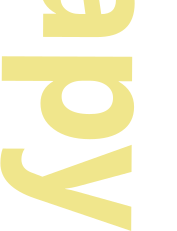
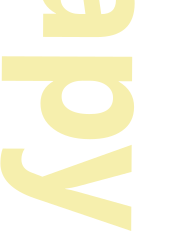
App updated-feedback

diff --git a/client/src/pages/Home/Home.js b/client/src/pages/Home/Home.js
@@ -45,14 +45,14 @@ const Welcome=()=>{
         <section  className="Welcome">
                 <div className="Home__bg_themed Home__bg_hello">
                     <div className="section__wrapper">
-                        <SectionTitle data={{divider:'',subtitle:'Welcome!',title:'Change happens when you allow yourself to look at life in a new way.'}}/>
+                        <SectionTitle data={{divider:'',subtitle:'Welcome',title:'Change happens when you allow yourself to look at life in a new way'}}/>
                     </div>
                 </div>
                 <div>
                     <div className="section__wrapper">
                         <p><b> It is not uncommon to feel lost or confused from time to time, or to experience symptoms, unhelpful behaviours or a lack of confidence. These are things that we can all experience.</b></p>
-                        <p>However you can always break the cycle of anger, anxiety, addiction, distrust and    unhealthy behaviour if you want. It all starts with you... Make a choice today!</p>
-                        <Link to='/contact#form' className="btn" smooth>Let's Chat Now</Link>
+                        {/* <p>However you can always break the cycle of anger, anxiety, addiction, distrust and    unhealthy behaviour if you want. It all starts with you... Make a choice today!</p> */}
+                        <Link to='/contact#form' className="btn" smooth>Get in touch</Link>
                     </div>
 
                 </div>
@@ -65,15 +65,15 @@ const About=()=>{
         <section  className="About" id="about">
                 <div className="section__bg_grey">
                     <div className="section__wrapper">
-                        <SectionTitle data={{divider:'themed',subtitle:'About Me',title:'Think about last time you felt heard.'}}/>
-                        <p>It's taugh to find someone you can truly connect with. Yet, in our fast-paced lives, the connection is more important than ever.</p>
+                        <SectionTitle data={{divider:'themed',subtitle:'About Me',title:'When was the last time you felt understood?'}}/>
+                        {/* <p>It's taugh to find someone you can truly connect with. Yet, in our fast-paced lives, the connection is more important than ever.</p> */}
                         <p>My dedication and expertise provide a safe space for you to be heard and understood with no judgement.</p>
                         <Link to='/therapy#integrative-therapy' className="btn" smooth>More About Therapy</Link>
                     </div>
                 </div>
                 <div className="About__bg_therapist">
                     <div className="cover">
-                        <SectionTitle data={{divider:'',subtitle:'Nice meeting you!',title:'My name is Nujoji ...'}}/>
+                        <SectionTitle data={{divider:'',subtitle:'',title:'My name is Nujoji'}}/>
                     </div>
                 </div>
         </section>
@@ -85,16 +85,16 @@ const Nujoji=()=>{
         <section  className="Nujoji">
             <div className="Home__bg_themed Page__bg_blue">
                 <div className="section__wrapper">
-                    <SectionTitle data={{divider:'',subtitle:'',title:'...and I\'m here to help you!'}}/>
+                    <SectionTitle data={{divider:'white',subtitle:'Qualified & Experienced',title:'Two people sitting down together'}}/>
                     <p><b>I am passionate about my work and firmly believe that therapy can bring about positive change to people’s lives.</b></p>
-                    <p>I have been trained in integrative therapy, that is a progressive form of therapy that combines different therapeutic tools and approaches to fit the needs of the individual client. By combining elements drawn from different schools of psychological theory and research, integrative therapy becomes a flexible and inclusive approach to understanding... Each person needs to be considered as an individual person and counselling techniques must be tailored to their individual needs and personal circumstances.</p>
+                    <p>I have been trained in integrative therapy, that is a progressive form of therapy that combines different therapeutic tools and approaches to fit the needs of the individual client. By combining elements drawn from different schools of psychological theory and research, integrative therapy becomes a flexible and inclusive approach to understanding. Each person needs to be considered as an individual person and counselling techniques must be tailored to their individual needs and personal circumstances.</p>
                 </div>
             </div>
             <div>
                 <img src={require('./../../imgs/homeText.pt2.png')} alt='Nujoji Calvocoressi' className="Page__top_img part2"/>
                 <div className="section__wrapper">
                     <p> I have trained for four years at The Minster Centre in London, I obtained a Graduate Diploma in Counselling.</p>
-                    <p>I have experience working one to one with individual clients as well as in a higher education setting. I also have experience working with offenders.</p>
+                    <p>I have experience working one to one with a diverse variety of individual clients as well as working within a student wellbeing service in a higher education setting. I also work with people who live in secure settings.</p>
                     <p>I  am a member of the British Association of Counsellors and Psychotherapists (BACP) and adhere to their Ethical Principles and Code of Professional Conduct. I am also trainee member of the United Kingdom Council for Psychotherapy (UKCP).</p>
                     <p className="text_cntr">
 

diff --git a/client/src/pages/Therapy/Therapy.js b/client/src/pages/Therapy/Therapy.js
@@ -45,14 +45,14 @@ const TherapyIntro=()=>{
         <section  className="TherapyIntro">
                 <div>
                     <div className="section__wrapper">
-                        <SectionTitle data={{divider:'themed',subtitle:'Make a choice today!',title:'Therapy can help You'}}/>
+                        <SectionTitle data={{divider:'themed',subtitle:'Make a choice today!',title:'How will therapy help?'}}/>
                         <img src={require('./../../imgs/chairs.png')} alt='Therapy room' className="TherapyIntro__img"/>
                     </div>
 
                 </div>
                 <div className="Therapy__bg_themed">
                     <div className="section__wrapper">
-                        <p><b>It is not unusual to feel hesitant or unsure about seeking help...  However it is important to make this first step and ask for help! And it's eqaully crucial to choose a right therapist for yourself. </b></p>
+                        <p><b>It is not unusual to feel hesitant or unsure about seeking help.  However it is important to make this first step and ask for help! And it's eqaully crucial to choose a right therapist for yourself. </b></p>
                         <p>You will need a therapist that you can work with and trust, because the better the relationship between both of you, the more you are likely to benefit from the therapy. </p>
                         <p><i>I hope that I can be your choice! I am here to help!</i></p>
                         <Link to='/#about' className="btn" smooth>More About Me</Link>
@@ -75,7 +75,7 @@ const IntegrativeTherapy=()=>{
                     <div className="section__wrapper">
                         <p>In my therapy, what you say will be treated with respect and compassion. It takes place in a private and confidential setting where we can explore thoughts and feelings in a context different to most every-day settings. It is a dedicated time set aside by you and me. </p>
                         <p> The setting and regularity of our meetings as well as our therapeutic relationship will be the vessel within which you will be free to express whatever is on your mind.</p>
-                        <p>Have more question? Please check out the frequently asked questions and their answers below.</p>
+                        <p>Starting therapy can be a source of comfort and release as well as worry. The below FAQs may help you reach a decision whether now is the right time for you.</p>
                     </div>
                 </div>
         </section>
@@ -87,9 +87,9 @@ const FAQ=props=>{
         <div className="FAQ Page__bg_grey" id="faqs">
             <img src={require('./../../imgs/therapyText.pt2.png')} alt='Therapy Page' className="Page__top_img part2"/>
             <div className="wrapper">
-                <SectionTitle data={{divider:'white',subtitle:'FAQs',title:'How does the therapy work?'}}/>
+                <SectionTitle data={{divider:'white',subtitle:'FAQs',title:'What is thearpy like'}}/>
                 <div className="fr1auto">
-                    <p>Answers to some of the enquiries you may have regarding may practice. <br/>Please do not hesitate to contact me directly if you have more questions.</p>
+                    <p>I hope some of the FAQS will help answer any questions that you may have about starting therapy or about how I practice. Please do not hesitate to contact me if you have another question. </p>
                     <div className=" btn_square" onClick={openAllQuestions}>Open All Questions</div>
                 </div>
                 <Accordion qa={questionsAndAnswers} />
@@ -212,9 +212,10 @@ const Fees=()=>{
         <section  className="Fees" id="fees">
                 <div className="Therapy__bg_themed">
                     <div className="section__wrapper">
-                        <SectionTitle data={{divider:'white',subtitle:'What I charge',title:'Regular meetings provide a sense of safety and continuity...'}}/>
+                        <SectionTitle data={{divider:'white',subtitle:'What I charge',title:'Many people find that regular meetings provide a sense of safety and continuity...'}}/>
                         <p><b>Regular weekly sessions are of 50 minutes duration, and are charged at £60.00 per session.</b></p>
-                        <Link to='/contact#form' className="btn" smooth>Book A Session</Link>
+                        <Link to='/contact#form' className="btn" smooth>Get in touch</Link>
+                        
                     </div>
                 </div>
                 <div>

diff --git a/client/src/components/Page/Page.js b/client/src/components/Page/Page.js
@@ -16,6 +16,7 @@ class Page extends Component {
                     <Top name={name} img={img}/>
                 </div>
                 {this.props.children}
+                <Footer/>
             </div>
         );
     }
@@ -29,7 +30,7 @@ const Top=(props)=>{
             <img src={require('../../imgs/'+imgName+'')} alt={imgAlt} className="Page__top_img part1"/>
             <div className="wrapper">
                 <Nav/>
-                <h2 className="Page__subtitle">Queen's Park &amp; West London</h2>
+                <h2 className="Page__subtitle">City of London &amp; West End</h2>
                 <h1 className="Page__title">Nujoji Calvocoressi <br/><span className={props.name+"__color_themed"}>Counselling</span></h1>
             </div>
         </div>
@@ -61,11 +62,11 @@ const NavLinks=()=>{
         <ul>
             <img src={require('../../imgs/menu.png')} alt='menu' className="Nav__mobile_img"/>
             <NavLink to="/" exact activeClassName="selected" smooth onClick={toggleMobileMenu}>Home</NavLink>
-            <NavLink to="/#about" activeClassName="selected" smooth onClick={toggleMobileMenu}>About</NavLink>
+            <NavLink to="/#about" activeClassName="selected" smooth onClick={toggleMobileMenu}>About Me</NavLink>
             <NavLink to="/therapy" activeClassName="selected" smooth onClick={toggleMobileMenu}>Therapy</NavLink>
             <NavLink to="/therapy#faqs" activeClassName="selected" smooth onClick={toggleMobileMenu}>FAQ</NavLink>
             <NavLink to="/therapy#fees" activeClassName="selected" smooth onClick={toggleMobileMenu}>Fees</NavLink>
-            <NavLink to="/contact" activeClassName="selected" smooth onClick={toggleMobileMenu}>Office</NavLink>
+            <NavLink to="/contact" activeClassName="selected" smooth onClick={toggleMobileMenu}>Location</NavLink>
             <NavLink to="/contact#form" activeClassName="selected" smooth onClick={toggleMobileMenu}>Contact</NavLink>
         </ul>
     )
@@ -81,4 +82,13 @@ const toggleMobileMenu=()=>{
         page.classList.remove('m_open');
     }
 }
-console.log(document.documentElement.clientWidth)
+
+const Footer=()=>{
+    return(
+        <footer className="Page__bg_grey">
+            <div className="btn_square" onClick={()=>window.scrollTo({ top: 0, behavior: 'smooth' })}>Back To Top</div>
+            <p><small>Nujoji Calvocoressi Counselling &copy; {new Date().getFullYear()}</small> </p>
+        </footer>
+
+    )
+}

diff --git a/client/src/App.css b/client/src/App.css
@@ -18,12 +18,12 @@
 }
 .cover{
     align-content: end;
-    background: rgba(0,0,0,.4);
+    background: rgba(0,0,0,.3);
     color: #fff;
     display: grid;
     height: 100%;
     left: 0;
-    padding: 0 0 10% 10%;
+    padding: 0 0 5% 10%;
     position: absolute;
     top: 0;
     width: 100%;
@@ -49,6 +49,17 @@
 .btn:hover{
     background: #161412;
     color: #fff;
+}
+.btn_square{
+    border: solid .1rem #111;
+    cursor: pointer;
+    font-family: sans-serif;
+    font-size: 1.2rem;
+    margin-bottom: 1rem;
+    margin-top: 1rem;
+    padding: 1rem 0;
+    text-align: center;
+    width: 16rem;
 }
 
 section{
@@ -92,15 +103,19 @@ section div{
 }
 .section__divider.white{
     background: #fff;
+    /* display: none; */
 }
 .Home .section__divider.themed{
     background:  #B4D8E6;
+    background: #D7E7F4;
 }
 .Therapy .section__divider.themed{
     background:  #F0E478;
+    background: #f6efad;
 }
 .Contact .section__divider.themed{
     background:  #D8A8E3;
+    background: #ecd5f1;
 }
 
 
@@ -114,21 +129,27 @@ section div{
 }
 .Home__bg_themed{
     background:  #B4D8E6;
+    background: #D7E7F4;
 }
 .Home__color_themed{
     color:  #B4D8E6;
+    color: #D7E7F4;
 }
 .Therapy__bg_themed{
     background:  #F0E478;
+    background: #f6efad;
 }
 .Therapy__color_themed{
     color:  #F0E478;
+    color: #f6efad;
 }
 .Contact__bg_themed{
     background:  #D8A8E3;
+    background: #ecd5f1;
 }
 .Contact__color_themed{
     color:  #D8A8E3;
+    color: #ecd5f1;
 }
 
 @media only screen and (max-width: 1200px) {
@@ -164,6 +185,6 @@ section div{
     }
     .section__wrapper{
         width: 80%;
-        padding: 7rem 0;
+        /* padding: 7rem 0; */
     }
 }

diff --git a/client/src/pages/Therapy/Therapy.css b/client/src/pages/Therapy/Therapy.css
@@ -1,6 +1,7 @@
 .TherapyIntro__img{
     margin: auto;
     margin-bottom: -5rem;
+    /* margin-top: -2rem; */
     width: 115%;
 }
 .IntegrativeTherapy__bg_respect{
@@ -19,17 +20,7 @@
     grid-column-gap: 2rem;
     grid-template-columns: 1fr auto;
 }
-.btn_square{
-    border: solid .1rem #111;
-    cursor: pointer;
-    font-family: sans-serif;
-    font-size: 1.2rem;
-    margin-bottom: 1rem;
-    margin-top: 1rem;
-    padding: 1rem 0;
-    text-align: center;
-    width: 16rem;
-}
+
 .Accordion{
     margin-top: 4rem;
     margin-bottom: 2rem;
@@ -69,6 +60,7 @@
 
 .accordion__li.active .accordion__q{
     background:  #F0E478;
+    background: #F6EFAD;
     font-weight: bold;
     transition: .2s;
 }
@@ -89,6 +81,7 @@
     .IntegrativeTherapy .section__divider.white,
     .IntegrativeTherapy__bg_respect{
         background: #F0E478;
+        background: #F6EFAD;
     }
 
 }

diff --git a/client/public/index.html b/client/public/index.html
@@ -5,6 +5,7 @@
     <!-- <link rel="shortcut icon" href="%PUBLIC_URL%/favicon.ico"> -->
     <meta name="viewport" content="width=device-width, initial-scale=1, shrink-to-fit=no">
     <meta name="theme-color" content="#000000">
+    <meta name="format-detection" content="telephone=no">
 
     <!--
       Notice the use of %PUBLIC_URL% in the tags above.
@@ -18,7 +19,7 @@
     <title>Nujoji Calvocoressi Counselling</title>
 
     <link href="https://fonts.googleapis.com/css?family=Abhaya+Libre|Bentham|Cormorant+Infant|Crimson+Text|PT+Serif|Vollkorn" rel="stylesheet">
-    <link href="https://fonts.googleapis.com/css?family=Julius+Sans+One" rel="stylesheet"> 
+    <link href="https://fonts.googleapis.com/css?family=Julius+Sans+One" rel="stylesheet">
   </head>
   <body>
     <noscript>

diff --git a/client/src/components/Page/Page.css b/client/src/components/Page/Page.css
@@ -57,12 +57,15 @@
 }
 .Home .Page__nav a.selected{
     background: #B4D8E6;
+    background:  #D7E7F4;
 }
 .Therapy .Page__nav a.selected{
     background: #F0E478;
+    background: #f6efad;
 }
 .Contact .Page__nav a.selected{
     background: #D8A8E3;
+    background: #ecd5f1;
 }
 .Page__nav_num{
     font-size: 1.4rem;
@@ -130,6 +133,18 @@
     top: -.2rem;
     width: 2rem;
 }
+footer{
+    font-family: sans-serif;
+    padding: 4rem 0 2rem;
+    text-align: center;
+}
+footer .btn_square{
+    margin: auto;
+}
+footer p small{
+    font-size: 1rem;
+}
+
 @media only screen and (max-width: 1350px) {
 
     .Page__nav_num{
@@ -188,6 +203,7 @@
     }
     .Page__top_img{
         opacity: .3;
+        opacity: .5;
     }
 
 
